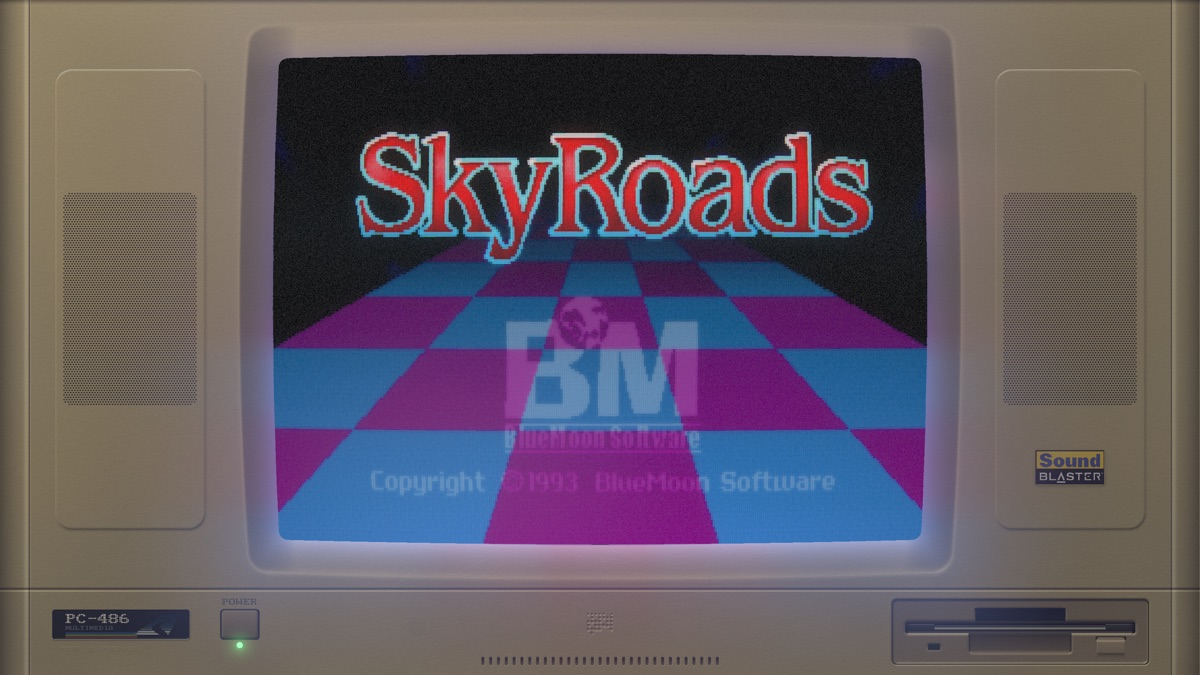
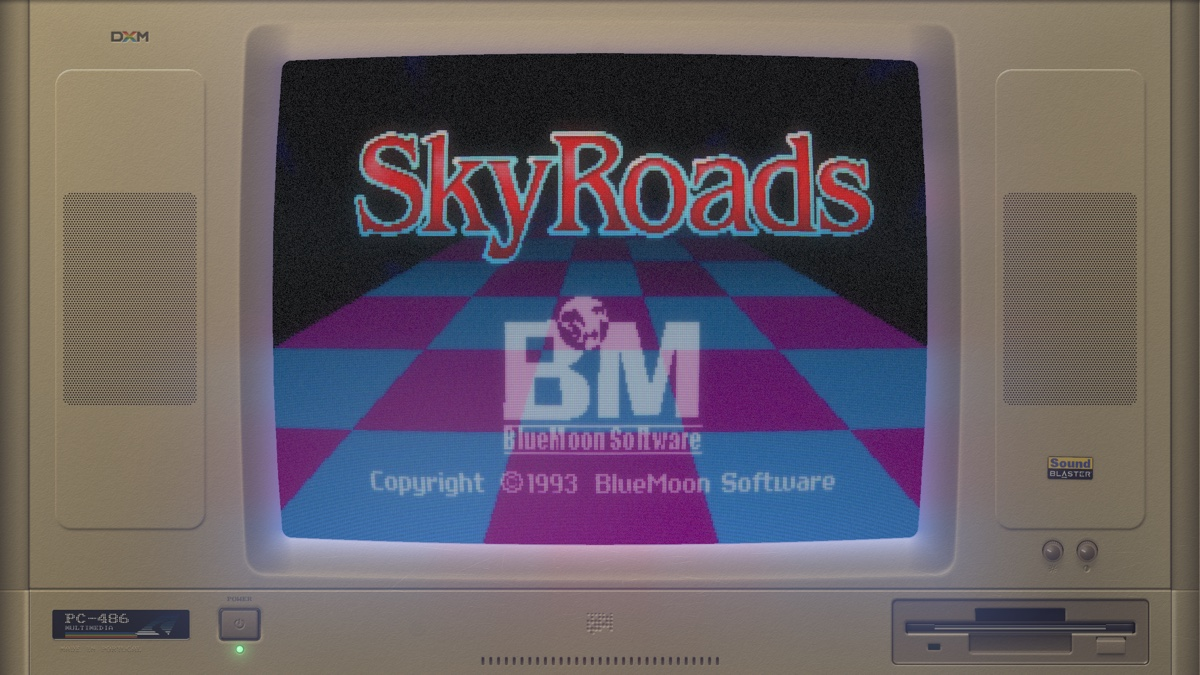
feat: upgrade to beta with cross-platform support and updated documentation, assets, and branding

diff --git a/docs/index.html b/docs/index.html
@@ -7,9 +7,9 @@
 <meta name="description" content="A procedurally-drawn 1993 beige-box PC with a simulated CRT that boots a DOS prompt and runs natively-ported DOS games. No emulation, no raster art.">
 <meta property="og:title" content="DOS ex Machina">
 <meta property="og:description" content="A 1993 PC on your screen — case, CRT and all — booting a DOS prompt and running native ports of DOS games behind the glass.">
-<meta property="og:image" content="https://pedrocatalao.github.io/dos-ex-machina/logo.png">
+<meta property="og:image" content="https://pedrocatalao.github.io/dos-ex-machina/logo-page.png">
 <meta name="twitter:card" content="summary_large_image">
-<link rel="icon" href="logo.png">
+<link rel="icon" href="logo-page.png">
 <link rel="preconnect" href="https://fonts.googleapis.com">
 <link rel="preconnect" href="https://fonts.gstatic.com" crossorigin>
 <link href="https://fonts.googleapis.com/css2?family=VT323&display=swap" rel="stylesheet">
@@ -115,11 +115,11 @@
 
 <header>
   <div class="wrap">
-    <img src="logo.png" alt="DOS ex Machina">
+    <img src="logo-page.png" alt="DOS ex Machina">
     <p class="tag">A 1993 PC on your screen. <b>Case, CRT and all.</b></p>
-    <div class="early">EARLY DEVELOPMENT — one game in the catalogue</div>
+    <div class="early">BETA — macOS, Windows and Linux; one game in the catalogue</div>
     <div class="cta">
-      <a class="btn" href="#download">Download 0.3 Beta</a>
+      <a class="btn" href="#download">Download 0.4 Beta</a>
       <a class="btn ghost" href="https://github.com/pedrocatalao/dos-ex-machina">View on GitHub</a>
       <a class="btn ghost" href="#build">Build it</a>
     </div>
@@ -132,8 +132,10 @@
     <p class="lede">A beige box that boots a DOS prompt, and runs real games behind the glass.</p>
     <p>DOS ex Machina draws a 1993 PC — the case, the moulding, the speaker
     grilles, thirty years of wear — and puts a working CRT in the middle of
-    it. From the <code>C:\&gt;</code> prompt you browse a catalogue, download a
-    game, and play it in the tube.</p>
+    it. It boots: POST, memory count, <code>AUTOEXEC.BAT</code>. From the
+    <code>C:\&gt;</code> prompt you browse a catalogue, download a game, and
+    play it in the tube. When you type <code>EXIT</code> the raster collapses
+    to a dot and the fans spin down.</p>
     <p>The games are <strong>not emulated</strong>. Each one is a native C
     port of the original, which also ships as a standalone game in its own
     right. DXM is the optional machine you can put it inside.</p>
@@ -164,9 +166,14 @@
       <div class="card">
         <h3>The sound</h3>
         <p>Fan, hum and drive spindle synthesised at run time from measured
-        spectra. A PC speaker POST beep. Only the floppy drive sound is sampled.</p>
+        spectra. The mains switch, the degauss thump, a PC speaker POST beep.
+        Only the floppy drive sound is sampled.</p>
       </div>
     </div>
+    <p style="margin-top:22px">The two knobs under the right speaker are
+    brightness and contrast — grab one with the mouse and turn it. F1 opens
+    the rest of the tube's controls; Ctrl+F10 hands the mouse to a game and
+    takes it back.</p>
   </div>
 </section>
 
@@ -176,12 +183,14 @@
     <p class="lede">Type NC. Press Enter. That is the whole of it.</p>
     <figure>
       <img src="screenshot-nc.jpg" alt="The navigator listing a game available to download">
-      <figcaption>The navigator — what is installed, and what could be</figcaption>
+      <figcaption>The navigator — what is installed, what could be, and when you last played it</figcaption>
     </figure>
     <p>DXM ships with no games and links none. The catalogue is fetched at run
     time and cached, so adding a title is an edit to a JSON file rather than a
     new release — and a machine that has been online once keeps working
-    offline afterwards.</p>
+    offline afterwards. The navigator's keys are on its bottom row: F2
+    deletes a game, F3 resets it, F4 updates it when a newer release is on
+    offer, F1 explains the rest.</p>
     <p>An install fetches the game's module and its data, checks both against
     a SHA-256, and unpacks them into your preferences directory. After that it
     runs with no network, forever. Game data is never mirrored: for freeware
@@ -192,13 +201,13 @@
 <section id="download">
   <div class="wrap">
     <h2>Download</h2>
-    <p class="lede">0.3 Beta — self-contained. Unpack it and run it; nothing to build, nothing to install.</p>
+    <p class="lede">0.4 Beta — self-contained. Unpack it and run it; nothing to build, nothing to install.</p>
     <div class="grid">
 
       <div class="card dl">
         <h3>macOS</h3>
         <ul>
-          <li><a href="https://github.com/pedrocatalao/dos-ex-machina/releases/download/v0.3-beta/dxm-macos-universal.zip">DOS ex Machina.app</a>
+          <li><a href="https://github.com/pedrocatalao/dos-ex-machina/releases/download/v0.4-beta/dxm-macos-universal.zip">DOS ex Machina.app</a>
               <span class="arch">— universal</span></li>
         </ul>
         <span class="note">Drag it to Applications. It is signed ad-hoc but
@@ -209,9 +218,9 @@
       <div class="card dl">
         <h3>Linux</h3>
         <ul>
-          <li><a href="https://github.com/pedrocatalao/dos-ex-machina/releases/download/v0.3-beta/dxm-linux-x86_64.tar.gz">Tarball</a>
+          <li><a href="https://github.com/pedrocatalao/dos-ex-machina/releases/download/v0.4-beta/dxm-linux-x86_64.tar.gz">Tarball</a>
               <span class="arch">— x86_64</span></li>
-          <li><a href="https://github.com/pedrocatalao/dos-ex-machina/releases/download/v0.3-beta/dxm-linux-arm64.tar.gz">Tarball</a>
+          <li><a href="https://github.com/pedrocatalao/dos-ex-machina/releases/download/v0.4-beta/dxm-linux-arm64.tar.gz">Tarball</a>
               <span class="arch">— arm64</span></li>
         </ul>
         <span class="note">Unpack and run <code>./dxm</code>. SDL3 travels
@@ -223,9 +232,9 @@
       <div class="card dl">
         <h3>Windows</h3>
         <ul>
-          <li><a href="https://github.com/pedrocatalao/dos-ex-machina/releases/download/v0.3-beta/dxm-windows-x86_64.zip">Zip</a>
+          <li><a href="https://github.com/pedrocatalao/dos-ex-machina/releases/download/v0.4-beta/dxm-windows-x86_64.zip">Zip</a>
               <span class="arch">— x86_64</span></li>
-          <li><a href="https://github.com/pedrocatalao/dos-ex-machina/releases/download/v0.3-beta/dxm-windows-arm64.zip">Zip</a>
+          <li><a href="https://github.com/pedrocatalao/dos-ex-machina/releases/download/v0.4-beta/dxm-windows-arm64.zip">Zip</a>
               <span class="arch">— arm64</span></li>
         </ul>
         <span class="note">Unpack and run <code>dxm.exe</code>. It is
@@ -235,11 +244,11 @@
 
     </div>
     <p>Every build needs an <strong>OpenGL 3.3 core</strong> context, which
-    most virtual machines cannot provide. <strong>macOS is the one that
-    works.</strong> The Linux and Windows builds currently stop at the splash
-    screen — a known bug, not a driver problem — and are there for anyone
-    who wants to help pin it down: each run writes a <code>dxm.log</code>
-    that says how far it got. See <a href="https://github.com/pedrocatalao/dos-ex-machina/releases/tag/v0.3-beta">the
+    most virtual machines cannot provide. All three platforms are verified on
+    real hardware on x86_64; the arm64 builds compile and package but have not
+    yet been watched drawing a frame. Each run writes a <code>dxm.log</code>
+    in the preferences directory that says how far it got and which GL driver
+    it found. See <a href="https://github.com/pedrocatalao/dos-ex-machina/releases/tag/v0.4-beta">the
     release notes</a>.</p>
     <p>Older builds and the full notes are on the
     <a href="https://github.com/pedrocatalao/dos-ex-machina/releases">releases page</a>.</p>
@@ -257,10 +266,7 @@ cmake --build build -j8
 ./build/dxm</pre>
     <p>Then <code>NC</code> at the prompt, and Enter on a game.</p>
     <p><strong>macOS, Linux and Windows</strong>, on x86_64 and arm64, all
-    built by CI. macOS is the one that works end to end. The Linux and
-    Windows builds start and then stop at the splash screen — on a real GPU
-    too, so it is a bug in DXM rather than a driver problem, and it is the
-    open issue in 0.3.</p>
+    built by CI, and all three verified end to end on real hardware.</p>
     <p>That is the one hard requirement: <strong>OpenGL 3.3 core</strong>.
     Most virtual machines cannot provide it.</p>
   </div>

diff --git a/src/dos.c b/src/dos.c
@@ -850,7 +850,9 @@ static void cmd_help(void){
     oline("DIR        List the files on this machine.");
     oline("CLS        Clear the screen.");
     oline("VER        Show the DOS version.");
-    oline("TYPE file  Display a text file. Try TYPE README.1ST | MORE.");
+    oline("TYPE file  Display a text file, a screen at a time if it is");
+    oline("           long. Try TYPE README.1ST.");
+    oline("MORE       Page any command's output: HELP | MORE.");
     oline("CD dir     Change directory. The games are in C:\\GAMES.");
     oline("NC         Browse the games in a dual-pane navigator.");
     oline("EXIT       Switch the machine off.");
@@ -871,11 +873,15 @@ static void run(char *s){
       if(bar){ char *m=bar+1; while(*m==' ') m++;
                if(!strncmp(m,"MORE",4)) page_want=1;
                *bar=0; while(bar>s && bar[-1]==' ') *--bar=0; } }
-    /* MORE file, and MORE < file, are TYPE file | MORE */
+    /* MORE file, and MORE < file, are TYPE file */
     if(!strncmp(s,"MORE",4) && (s[4]==' '||s[4]==0)){
-        memmove(s,"TYPE",4); page_want=1;
+        memmove(s,"TYPE",4);
         char *lt=strchr(s,'<'); if(lt) *lt=' ';
     }
+    /* TYPE pages by itself when a file is longer than the screen: the
+     * pager only stops if there is more to show, so a short file simply
+     * prints */
+    if(!strncmp(s,"TYPE",4) && (s[4]==' '||s[4]==0)) page_want=1;
     char *sp=strchr(s,' '); char *arg=NULL;
     if(sp){ *sp=0; arg=sp+1; while(*arg==' ') arg++; }
     size_t n=strlen(s);

diff --git a/src/disk.c b/src/disk.c
@@ -15,8 +15,8 @@ static const char AUTOEXEC[] =
     "SET BLASTER=A220 I5 D1 T4\r\n"
     "SET TEMP=C:\\TEMP\r\n"
     "LH C:\\DOS\\MOUSE.COM\r\n"
-    "ECHO TYPE README.1ST ^| MORE for help.\r\n"
-    "ECHO If you know, you know.\r\n"
+    "ECHO > TYPE README.1ST for help.\r\n"
+    "ECHO > If you know, you know.\r\n"
     "ECHO.\r\n";
 static const char CONFIGSYS[] =
     "DEVICE=C:\\DOS\\HIMEM.SYS\r\n"

diff --git a/README.md b/README.md
@@ -1,14 +1,14 @@
 <p align="center">
-  <img src="docs/logo.png" alt="DOS ex Machina" width="720">
+  <img src="docs/logo-readme.png" alt="DOS ex Machina" width="720">
 </p>
 
 A 1993 beige-box PC on your screen — case, CRT and all — booting a simulated
 DOS prompt, from which you install and run **natively ported** DOS games. The
 games run in the same tube, behind the same glass, with the same phosphor.
 
-> **Early development.** macOS is the platform it works on end to end. The
-> Linux and Windows builds start and then stop at the splash screen — a known
-> bug in 0.3, not a driver problem. See Status.
+> **Beta.** It works end to end on macOS, Windows and Linux. The catalogue has
+> one game in it, and the downloads are unsigned, so each platform's
+> first-run warning applies. See Status.
 
 Nothing here is a photograph. The machine is drawn procedurally at your
 display's resolution, from signed-distance geometry and a lighting model: the
@@ -33,12 +33,19 @@ own — and DXM is the optional machine you can put it inside.
 ## Getting a game
 
 DXM ships with no games and links none. Type `NC` at the prompt for the
-navigator: it lists what is installed and what could be, and Enter downloads
-the highlighted one.
+navigator: a table of what is installed and what could be, with each game's
+release and when you last played it. Enter plays the highlighted game, or
+downloads it if it's not on the disk yet.
 
 <p align="center">
-  <img src="docs/screenshot-nc.jpg" alt="The navigator, with a game available to download" width="80%">
+  <img src="docs/screenshot-nc.jpg" alt="The navigator on SkyRoads" width="80%">
 </p>
+
+The navigator's keys are on its bottom row, as they were on the real thing:
+**F1** help, **F2** delete a game, **F3** reset one (its saved games and
+settings go, the game stays), **F4** update it when the catalogue offers a
+newer release, **F10** or Esc back to the prompt. **Tab** moves between the
+panels; with the description focused, the arrows scroll it.
 
 The catalogue is [`catalogue.json`](catalogue.json), fetched at run time and
 cached on disk — so adding a game is an edit to that file rather than a new
@@ -46,9 +53,10 @@ release of DXM, and a machine that has been online once keeps working offline
 afterwards.
 
 An install fetches the game's `.dxm` module and its data, checks both against
-the SHA-256 the catalogue names, and unpacks them into `<prefs>/games/<id>/`.
-After that the game runs with no network, forever. Nothing DXM downloads lives
-in the repository or the build tree, so a rebuild never costs you a download.
+the SHA-256 the catalogue names, and unpacks them into `<prefs>/games/<id>/`,
+keeping the data archive beside them so a reset needs no network. After that
+the game runs with no network, forever. Nothing DXM downloads lives in the
+repository or the build tree, so a rebuild never costs you a download.
 
 Game data is never mirrored here: for freeware titles the catalogue points at
 the publisher's own download.
@@ -65,6 +73,10 @@ threading library of its own**, which is what makes it loadable everywhere DXM
 runs. `dxm_core_info.abi` is checked before anything starts, so a module built
 against a different version of the contract is refused with a message saying
 which side needs updating.
+
+## Installing
+
+Every release is self-contained: unpack it and run it.
 
 On macOS the release is a `DOS ex Machina.app` bundle. It is ad-hoc signed
 rather than notarised, so the first launch needs **right-click → Open** —
@@ -103,45 +115,55 @@ Fullscreen is real fullscreen: the case fills the display edge to edge with no
 background around it. Extra width becomes more machine — wider bays, wider
 speaker columns on ultrawide — never letterboxing.
 
-At the `C:\>` prompt:
+The machine boots: POST, memory count, `AUTOEXEC.BAT`. At the `C:\>` prompt:
 
 | | |
 |---|---|
 | `NC` | the navigator — browse, download, play |
 | `DIR`, `CD` | the games live in `C:\GAMES` |
-| `TYPE`, `CLS`, `VER`, `HELP` | as you would expect |
+| `TYPE`, `MORE` | `TYPE README.1ST` is the machine's own introduction |
+| `CLS`, `VER`, `HELP` | as you would expect |
 | `EXIT` | switch the machine off |
 
+`C:\` holds what a 1993 boot disk held — `COMMAND.COM`, `AUTOEXEC.BAT`,
+`CONFIG.SYS`, `README.1ST`, `NC.EXE` — all of it part of the machine rather
+than files on your computer. `DIR` lists them and `TYPE` reads them, a
+screen at a time when a file is long; `| MORE` pages any other command.
+
 A game runs from the directory it is in, so `CD GAMES` then its name — DOS did
-not search the disk for you. `NC` reaches them from anywhere.
+not search the disk for you. `NC` reaches them from anywhere, and a game
+started from the navigator returns to it.
 
-**F1** opens a settings panel over the tube with sixteen CRT parameters —
-bloom, burn-in, static, jitter, glow line, ambient light, flicker, h-sync,
-RGB shift, chassis glow, persistence, scanlines, pixel grid, curvature,
-brightness, contrast. They save to `crt.cfg` in the preferences directory.
+**The two knobs** under the right speaker are brightness and contrast: grab
+one with the mouse and drag up or down. **F1** opens a panel over the tube
+with the rest of the CRT — bloom, burn-in, static, jitter, glow line, ambient
+light, flicker, h-sync, RGB shift, chassis glow, persistence, scanlines, pixel
+grid, curvature. Everything saves to `crt.cfg` in the preferences directory.
 
-Esc out of a game returns to the prompt; the machine survives it and the game
-can be relaunched.
+**Ctrl+F10** hands the mouse to the game, or takes it back; a game starting
+takes it, a game ending returns it. Esc out of a game returns to wherever it
+was started from; the machine survives it and the game can be relaunched.
+`EXIT` powers down properly: the raster collapses, the fans spin down, and the
+room goes dark.
 
 Dev flags: `--windowed`, `--size WxH`, `--type "CMD;CMD"`,
 `--shot out.bmp --frames N`, `--selftest`, `--ambient N`, `--dump-audio FILE`.
 
 ## Status
 
-**macOS** does the whole thing: boot → `C:\>` → `NC` → download a game → it
-runs in the tube → Esc → the prompt again → it relaunches. `--selftest` runs
-that launch/unwind/relaunch sequence twice, and is what proves PORTING §3.1
+**macOS**, **Windows** and **Linux** all do the whole thing on real hardware:
+boot → `C:\>` → `NC` → download a game → it runs in the tube → Esc → back →
+it relaunches. Windows and Linux are verified on x86_64; the arm64 builds
+compile and package on CI but have not yet been watched drawing a frame, and
+neither has the Intel half of the macOS universal binary. `--selftest` runs
+the launch/unwind/relaunch sequence twice, and is what proves PORTING §3.1
 and §3.2 hold.
 
-**Linux and Windows** build, package and start — and then **stop at the
-splash screen**. That has been seen on a Linux VM and on a Windows machine
-with a real GPU, so it is not the VM's missing driver: it is a bug in DXM,
-open as of 0.3, and the machine has never been seen drawn on either platform.
 Every run writes `dxm.log` to the preferences directory — Windows
 `%APPDATA%\DOSexMachina\dxm\`, Linux `~/.local/share/DOSexMachina/dxm/`,
 macOS `~/Library/Application Support/DOSexMachina/dxm/` — with a timestamp
-for each startup step, from both threads. If you hit it, that file is the
-bug report.
+for each startup step and the GL driver in use. If something goes wrong, that
+file is the bug report.
 
 The **core module** — the game side of the contract — is verified on all three
 platforms and both architectures by the game repository's CI.
@@ -152,18 +174,18 @@ An **OpenGL 3.3 core** context. That rules out most virtual machines: virgl on
 an Apple Silicon host offers only a 2.1 compatibility profile, and Windows
 without a GPU driver gives Microsoft's software GL 1.1. On Linux you can force
 Mesa's software rasteriser with `LIBGL_ALWAYS_SOFTWARE=1`, which works but is
-far too slow to be pleasant. If DXM cannot get what it needs it says which
-functions were missing rather than failing silently.
+far too slow to be pleasant. If DXM cannot get what it needs it says so on
+screen, naming the driver and the functions that were missing.
 
 ## Known gaps
 
-- **Linux and Windows stop at the splash screen** — see Status. It happens
-  with a real GPU, so it is not a driver problem; `dxm.log` is the evidence.
 - **The catalogue has one game in it.**
-- The chassis knobs are drawn but not yet interactive; the F1 panel is the
-  working control surface.
-- The font is an 8x8 ASCII subset row-doubled to 8x16, plus the CP437 line
-  drawing the navigator needs — not full CP437.
+- **Unsigned.** macOS and Windows each show a first-run warning; see
+  Installing for the way through it.
+- **arm64 Linux and Windows are unverified on hardware.** They build and
+  package; nobody has run them yet.
+- Games have no mouse: the host contract is keyboard only, which is what the
+  one game in the catalogue needs.
 
 ## License
 
